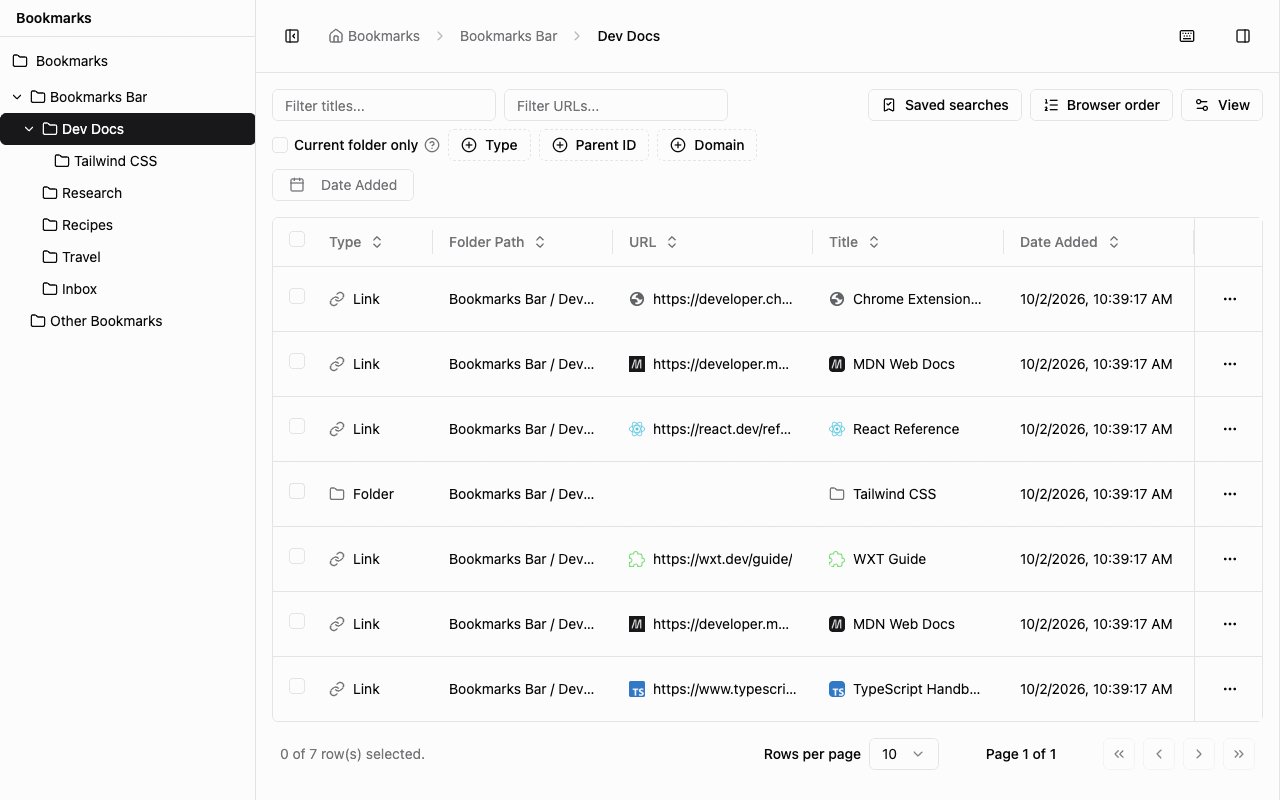
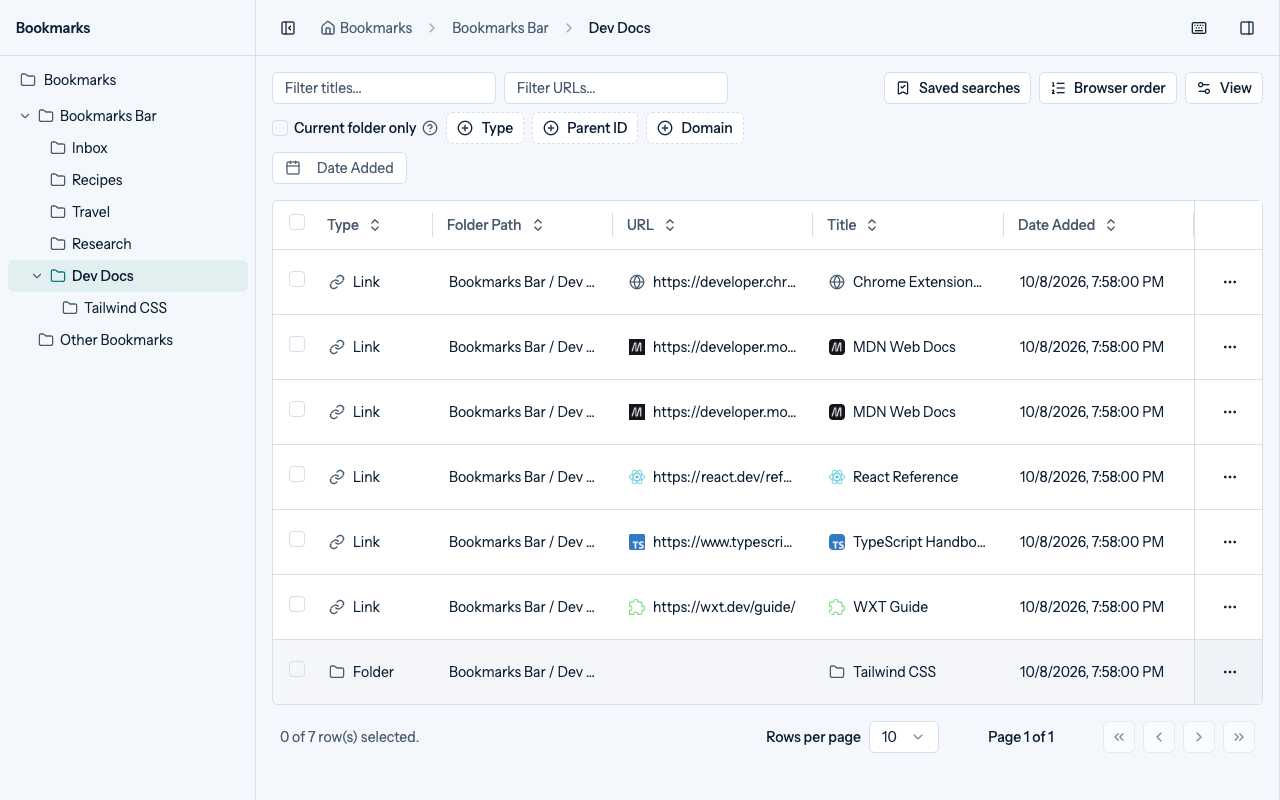
📸 docs(store): recapture store screenshots for the redesigned UI (#576)
* 📸 docs(store): recapture store screenshots for the redesigned UI

- Recapture the popup, manager, and Duplicate Cleaner screenshots (light and
  dark) from the current build, with real site icons and synthetic bookmarks.
- Add a padded 128 px store icon (artwork 96 px tall) for the listing only;
  the packaged toolbar icons are unchanged.
- Add store/ai-asset-prompts.md: prompts, input files, and output paths for
  generating the marquee tile, promo tile, logo master, and video bumpers.

* 🎨 docs(store): add the marquee tile and logo master for the store listing

diff --git a/store/ai-asset-prompts.md b/store/ai-asset-prompts.md
@@ -1,0 +1,97 @@
+# AI Asset Prompts (Chrome Web Store)
+
+Prompts for an external image and video model to make the Bookmark Scout store artwork. Paths are relative to the repository root.
+
+## Rules for every asset
+
+- **Never generate screenshots or product UI.** Store screenshots and the demo part of the video must show the real extension (`store/screenshots/`, captured with the `extension-exploratory-qa` runner). AI-drawn UI misrepresents the product.
+- **Never let the model draw the logo or the name.** Leave empty space and place the real logo and text afterwards. Models distort logos and misspell text.
+- **Brand:** calm "map reader" look: paper, ink, compass. Gradient only `#2bb3b1` → `#4f6ce0` → `#8a3fd1`. Paper `#f4f7fb` (light) or `#0d1b2a` (dark). Ink `#0f2135`. Marker highlight `#ffe27a`. Flat vector, soft shadows, no people.
+- **Store image format:** exact pixel size, JPEG or 24-bit PNG, **no alpha**. Convert after generating:
+  ```bash
+  magick <file>.png -alpha off -type TrueColor -define png:color-type=2 <file>.png
+  ```
+
+## Input files (upload as references)
+
+| File | Size | Use |
+| --- | --- | --- |
+| `apps/extension/public/icon-128.png` | 128×128, real transparency | Logo reference for shape and colors |
+| `apps/website/public/icon.png` | 128×128, real transparency | Same logo, website copy |
+| `store/assets/icon-original.png` | 2048×2048, **no alpha** | High-resolution logo. The grey checkerboard is painted into the pixels, not real transparency; tell the model to ignore it |
+| `store/screenshots/promo-small-440x280.png` | 440×280 | Current small tile, for comparison only |
+
+## Output files
+
+Save raw model outputs outside the repository in `~/.cache/bookmark-scout-assets/raw/`. Put only the final, converted files at these paths:
+
+| Asset | Final path | Size | Required |
+| --- | --- | --- | --- |
+| Logo master | `store/assets/logo-master-2048.png` | 2048×2048, real transparency | Source for the icon below |
+| Store icon | `store/assets/store-icon-128.png` | 128×128, artwork about 96×96 centered | Exists (made from `icon-128.png`); regenerate from the master for a sharper result |
+| Marquee promo tile | `store/assets/marquee-1400x560.png` | 1400×560, no alpha | Optional, needed for homepage features |
+| Small promo tile | `store/screenshots/promo-small-440x280.png` (replace) | 440×280, no alpha | Yes, already uploaded once |
+| Video intro | `~/.cache/bookmark-scout-assets/video/intro.mp4` | 1920×1080, 3 to 5 s | For the YouTube promo video |
+| Video outro | `~/.cache/bookmark-scout-assets/video/outro.mp4` | 1920×1080, 3 to 5 s | For the YouTube promo video |
+
+Videos stay out of the repository; the store takes a YouTube URL.
+
+## 1. Logo master (clean transparency)
+
+Input: `store/assets/icon-original.png`.
+
+```text
+Recreate this exact logo as a clean vector-style image, 2048x2048 px, on a truly transparent background. The grey and white checkerboard in the input is not part of the logo; remove it completely. Keep the shape, proportions, and colors identical: a bookmark ribbon with a notched bottom, a magnifier ring on top with a handle to the lower right, and an eight-point compass star inside the ring, colored with a teal-to-violet gradient (#2bb3b1 to #4f6ce0 to #8a3fd1). Do not add text, shadows, or a background. Center the artwork with equal padding.
+```
+
+Then make the store icon (artwork about 96 px on a 128 px canvas):
+
+```bash
+magick store/assets/logo-master-2048.png -trim -resize 96x96 -gravity center -background none -extent 128x128 store/assets/store-icon-128.png
+```
+
+## 2. Marquee promo tile (1400×560)
+
+Input: `apps/extension/public/icon-128.png` (style reference only).
+
+```text
+Wide banner, exactly 1400x560 px, for a browser extension called "Bookmark Scout". Calm, premium, minimal. Background: soft paper white #f4f7fb with a very faint topographic map contour pattern and a subtle compass rose in the far right, low contrast. Left third: leave clean empty space for a logo and the name (do not draw any text or letters). Right two thirds: an abstract composition of floating bookmark ribbons and folder shapes arranged like a tidy map, a few connected by thin dotted route lines, one ribbon highlighted with a soft yellow marker glow #ffe27a. Color accents only from a teal-to-violet gradient #2bb3b1 to #4f6ce0 to #8a3fd1, ink color #0f2135 for thin line work. Flat vector illustration, soft shadows, no 3D, no people, no browser UI, no text, no watermark. Opaque background, no transparency.
+```
+
+Afterwards: place `store/assets/logo-master-2048.png` (about 200 px tall) and "Bookmark Scout" in Bricolage Grotesque, ink `#0f2135`, in the empty left third.
+
+## 3. Small promo tile (440×280)
+
+Input: `apps/extension/public/icon-128.png` (style reference only).
+
+```text
+Small tile, exactly 440x280 px, for the browser extension "Bookmark Scout". Centered composition: leave a clear empty square in the center (about 140x140 px) for the app logo; do not draw a logo or any text. Around it: a soft radial glow in the teal-to-violet gradient #2bb3b1 to #4f6ce0 to #8a3fd1 at low opacity, a faint topographic contour pattern, and two or three small bookmark ribbon shapes orbiting at the edges. Background paper white #f4f7fb. Flat vector, minimal, calm, readable at small size. No text, no letters, no UI, no watermark. Opaque background, no transparency.
+```
+
+Afterwards: place the logo (about 120 px) in the center. Google's guidance is to avoid text on promo tiles, so the name is optional.
+
+## 4. Video intro and outro (16:9)
+
+Input: `store/assets/logo-master-2048.png` (color reference only).
+
+Intro:
+
+```text
+5-second brand intro, 16:9, 1920x1080. A single bookmark ribbon in a teal-to-violet gradient (#2bb3b1 to #8a3fd1) unfurls on a paper-white background (#f4f7fb) with faint topographic map lines; a small compass star spins once and settles on the ribbon, then the scene gently fades to plain #f4f7fb, leaving empty space in the center for a logo. Calm, smooth, slow camera, flat vector motion-graphics style. No text, no people, no browser interface.
+```
+
+Outro:
+
+```text
+4-second brand outro, 16:9, 1920x1080. Paper-white background (#f4f7fb) with faint topographic map lines drifting slowly; a soft teal-to-violet glow (#2bb3b1 to #8a3fd1) pulses once in the center, leaving a clean empty center area for a logo and a website address. Calm, flat vector motion-graphics style. No text, no people, no browser interface.
+```
+
+Afterwards: overlay the logo, and on the outro add `bookmark-scout.com`. The middle 30 to 45 seconds is a real screen recording of the extension (popup search and save, manager, Duplicate Cleaner, AI folder suggestions) made from the built extension with synthetic bookmarks.
+
+## Check before uploading
+
+```bash
+sips -g pixelWidth -g pixelHeight -g hasAlpha store/assets/marquee-1400x560.png store/screenshots/promo-small-440x280.png store/assets/store-icon-128.png
+```
+
+Tiles must report `hasAlpha: no`. The 128 px icon may keep transparency.

diff --git a/store/README.md b/store/README.md
@@ -102,7 +102,7 @@ Suggested order for the Chrome Web Store (5 maximum): 01, 02, 03, 04, 06. Firefo
 - Theme left at the default `system`; light and dark come from the emulated OS color scheme, so Options shows no "Modified" badges.
 - The runner opens the popup as a tab, so its "current tab" would be the popup itself. The capture script stubbed `tabs.query` for the active tab to return a public MDN page instead. No other behavior was changed.
 - Site icons are real: before capturing, the script ran **Refresh Site Icons** over all bookmarks and saved the results, in a copy of the build whose manifest grants the optional website access (as the E2E `grantWebHostAccess` fixture does, because the permission prompt cannot be answered headlessly). Icons came only from the bookmarked sites. Sites without a usable same-site icon (`developer.chrome.com`, `example.com`, `example.org`) keep the generic globe, as they would for a user.
-- Recaptured on 2026-10-02 from `main` after the Refresh Site Icons tool landed (#501). The two Options captures (`04-options-ai-light.png`, `08-options-ai-dark.png`) were recaptured on 2026-10-08 for the redesigned Options page and the new AI toggle text; they are plain 1280×800 page captures of `options.html` with the AI section selected. The same eight files are copied to `apps/website/public/screenshots/` and `apps/docs/public/screenshots/`; the website generates its AVIF and WebP variants from them at build time.
+- Recaptured on 2026-10-02 from `main` after the Refresh Site Icons tool landed (#501). All eight were recaptured on 2026-10-08 for the redesigned UI: the popup pair (`01`, `05`) is composed from two 400×500 popup captures on the brand paper color with the Bricolage Grotesque heading, and the other six are plain 1280×800 page captures. The store icon (`store/assets/store-icon-128.png`, artwork 96 px tall on a 128 px canvas), the small promo tile, and the marquee tile (`store/assets/marquee-1400x560.png`) were made from `store/ai-asset-prompts.md`: AI-generated backgrounds and a cleaned logo master (`store/assets/logo-master-2048.png`), with the real logo and title composited afterwards. They are used for the store listing only; the packaged toolbar icons are unchanged.
 - Raw captures stay in `~/.cache/bookmark-scout-qa/store-icons/` (not committed). Curated files were re-encoded with ImageMagick (reduced palette, saved as 24-bit RGB without alpha) to keep each file around 75 to 130 KB.
 
 Screenshots show the English UI. Localized screenshots for `ja` and `ko` were not produced; the stores accept the English set for every locale.
